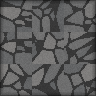
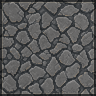
Revamp town wall and floor textures

diff --git a/sw.js b/sw.js
@@ -1,4 +1,4 @@
-const CACHE_NAME = 'soloheim-v17';
+const CACHE_NAME = 'soloheim-v18';
 const APP_SHELL = [
   './',
   './index.html',
